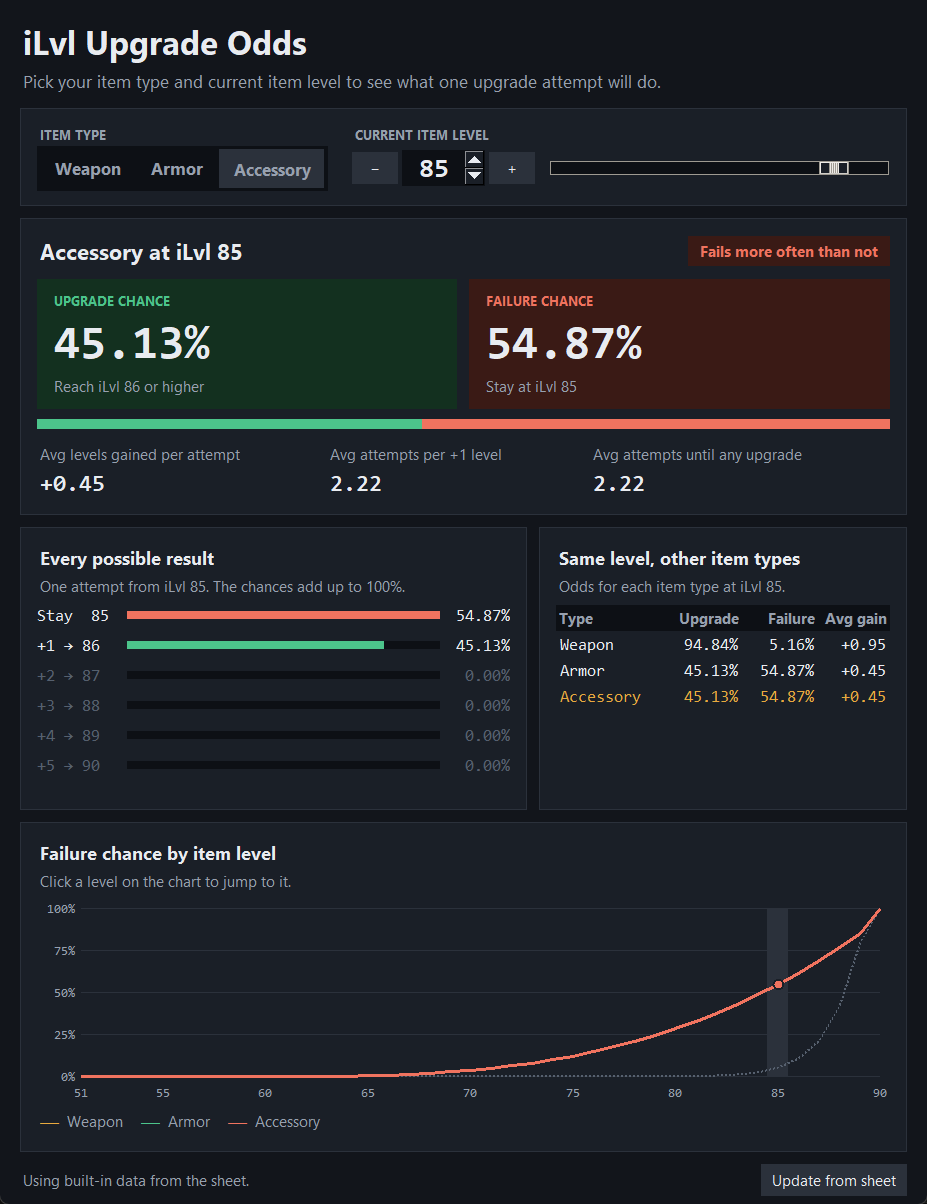
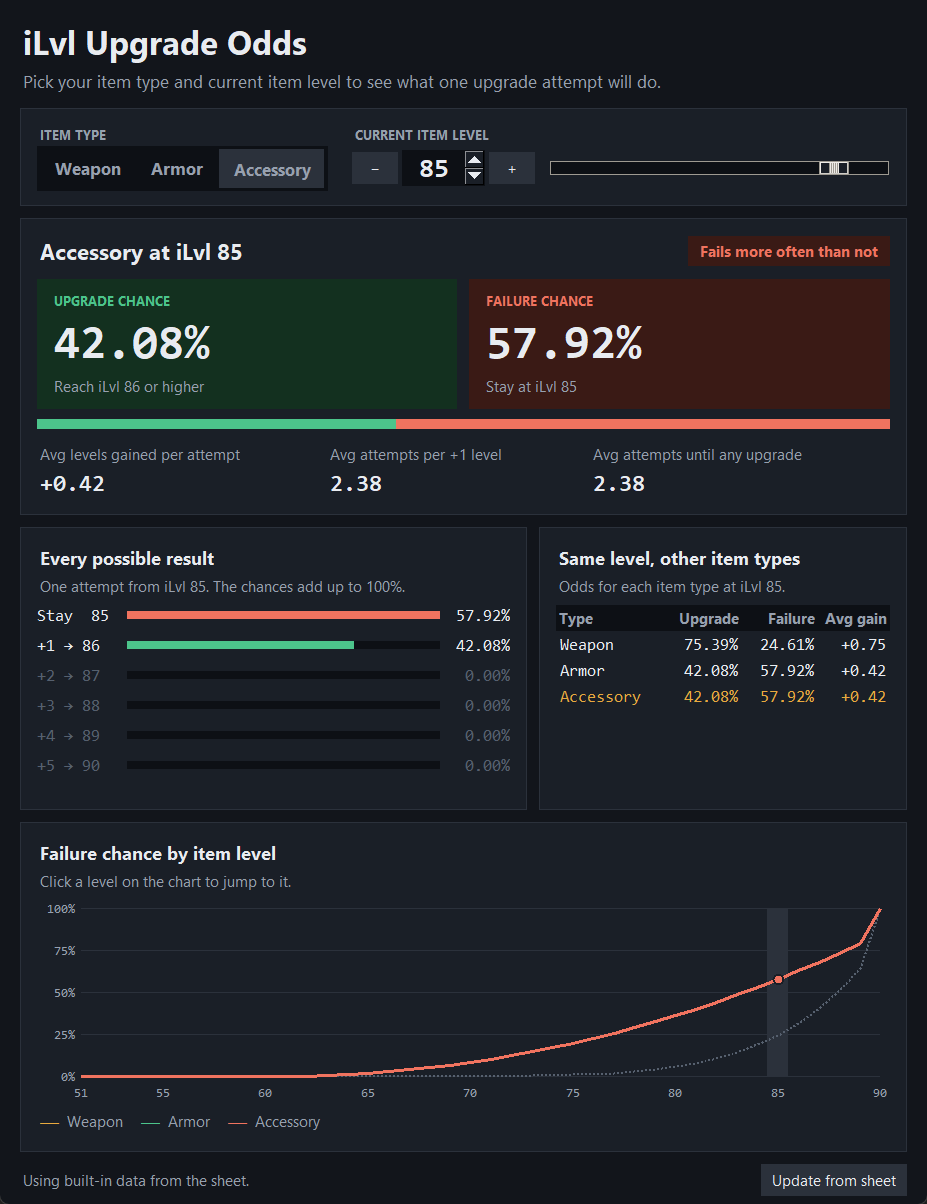
Update odds for the new patch using the Upgrade Table tabs
Switch to the new patch spreadsheet and read the Weapon/Armor/Accessory
Upgrade Table tabs instead of the Data tabs. iLvl 90 stays the cap.

diff --git a/ilvl_odds.py b/ilvl_odds.py
@@ -1,8 +1,9 @@
 """iLvl Upgrade Odds - check the upgrade and failure chance for one upgrade attempt.
 
-Data comes from the Weapons / Armor / Accessory Data tabs of the upgrade spreadsheet.
+Data comes from the Weapon / Armor / Accessory Upgrade Table tabs of the upgrade spreadsheet
+(the "Data" tabs are ignored). Each table row is a current iLvl; each column a target iLvl.
 Probabilities are stored in basis points (10000 = 100%) for a jump of +0..+5 levels.
-A +0 result is a failure (the item stays at its current level); items never lose levels.
+A +0 result is a failure (the item stays at its current level). iLvl 90 is the cap.
 """
 
 import csv
@@ -12,17 +13,16 @@ import tkinter as tk
 import urllib.request
 from tkinter import ttk
 
-SHEET_ID = "1vwajieBpz1aG5w9Bowha_bi0FKsclHv6GOT3r0qvzps"
-# Armor shares the Accessory Data tab: the sheet's Armor Data tab has the wrong odds.
-SHEET_TABS = {"weapon": "1739045732", "accessory": "526687631"}
+SHEET_ID = "1vFb9oC9X8ZaV6It9wg1yczTTkggU54zAMFBs6FuPDZ8"
+SHEET_TABS = {"weapon": "218905216", "armor": "948079119", "accessory": "1476482793"}
 TYPES = [("weapon", "Weapon"), ("armor", "Armor"), ("accessory", "Accessory")]
 MIN_LVL, MAX_LVL = 51, 90
 
 # Snapshot of the sheet, used offline and until "Update from sheet" is pressed.
 # level: [+0 (fail), +1, +2, +3, +4, +5] in basis points
-DATA = {"weapon":{"51":[0,2975,2380,1904,1523,1218],"52":[0,5113,2585,1307,661,334],"53":[0,5716,2501,1094,479,210],"54":[0,6149,2402,939,367,143],"55":[0,6498,2299,813,288,102],"56":[0,6795,2194,708,229,74],"57":[0,7056,2089,618,183,54],"58":[0,7289,1984,540,147,40],"59":[0,7501,1880,471,118,30],"60":[0,7696,1777,410,95,22],"61":[0,7877,1675,356,76,16],"62":[0,8046,1574,308,60,12],"63":[0,8205,1473,265,48,9],"64":[0,8357,1374,226,37,6],"65":[0,8499,1276,192,29,4],"66":[0,8634,1180,161,22,3],"67":[0,8763,1084,134,17,2],"68":[0,8888,989,110,12,1],"69":[0,9006,895,89,9,1],"70":[0,9122,801,70,6,1],"71":[0,9233,709,54,4,0],"72":[0,9338,618,41,3,0],"73":[0,9442,527,29,2,0],"74":[0,9542,437,20,1,0],"75":[0,9639,348,13,0,0],"76":[0,9733,260,7,0,0],"77":[0,9824,173,3,0,0],"78":[1,9912,86,1,0,0],"79":[3,9997,0,0,0,0],"80":[8,9992,0,0,0,0],"81":[21,9979,0,0,0,0],"82":[49,9951,0,0,0,0],"83":[110,9890,0,0,0,0],"84":[243,9757,0,0,0,0],"85":[516,9484,0,0,0,0],"86":[1064,8936,0,0,0,0],"87":[2137,7863,0,0,0,0],"88":[4184,5816,0,0,0,0],"89":[8000,2000,0,0,0,0],"90":[10000,0,0,0,0,0]},"accessory":{"51":[0,2975,2380,1904,1523,1218],"52":[0,5113,2585,1307,661,334],"53":[0,5716,2501,1094,479,210],"54":[0,6149,2402,939,367,143],"55":[0,6498,2299,813,288,102],"56":[0,6795,2194,708,229,74],"57":[0,7056,2089,618,183,54],"58":[0,7289,1984,540,147,40],"59":[0,7501,1880,471,118,30],"60":[0,7696,1777,410,95,22],"61":[0,7877,1675,356,76,16],"62":[3,8044,1573,308,60,12],"63":[11,8197,1472,264,47,9],"64":[25,8335,1371,226,37,6],"65":[48,8458,1270,191,29,4],"66":[82,8563,1170,160,22,3],"67":[128,8652,1070,132,16,2],"68":[190,8719,970,108,12,1],"69":[270,8764,870,86,9,1],"70":[368,8785,772,68,6,1],"71":[487,8782,675,52,4,0],"72":[630,8750,579,38,3,0],"73":[797,8689,485,27,2,0],"74":[992,8595,394,18,1,0],"75":[1216,8467,306,11,0,0],"76":[1471,8301,222,6,0,0],"77":[1759,8096,142,3,0,0],"78":[2082,7849,68,1,0,0],"79":[2442,7558,0,0,0,0],"80":[2841,7159,0,0,0,0],"81":[3281,6719,0,0,0,0],"82":[3763,6237,0,0,0,0],"83":[4290,5710,0,0,0,0],"84":[4864,5136,0,0,0,0],"85":[5487,4513,0,0,0,0],"86":[6159,3841,0,0,0,0],"87":[6885,3115,0,0,0,0],"88":[7664,2336,0,0,0,0],"89":[8500,1500,0,0,0,0],"90":[10000,0,0,0,0,0]}}
+DATA = {"weapon":{"51":[0,2975,2380,1904,1523,1218],"52":[0,5113,2585,1307,661,334],"53":[0,5716,2501,1094,479,210],"54":[0,6149,2402,939,367,143],"55":[0,6498,2299,813,288,102],"56":[0,6795,2194,708,229,74],"57":[0,7056,2089,618,183,54],"58":[0,7289,1984,540,147,40],"59":[0,7501,1880,471,118,30],"60":[0,7696,1777,410,95,22],"61":[0,7877,1675,356,76,16],"62":[0,8046,1574,308,60,12],"63":[0,8205,1473,265,48,9],"64":[0,8357,1374,226,37,6],"65":[0,8499,1276,192,29,4],"66":[0,8634,1180,161,22,3],"67":[1,8763,1083,134,17,2],"68":[2,8887,988,110,12,1],"69":[3,9004,894,89,9,1],"70":[7,9115,801,70,6,1],"71":[12,9222,708,54,4,0],"72":[21,9319,616,41,3,0],"73":[36,9408,525,29,2,0],"74":[58,9486,435,20,1,0],"75":[90,9553,345,12,0,0],"76":[137,9599,257,7,0,0],"77":[203,9625,169,3,0,0],"78":[294,9621,84,1,0,0],"79":[417,9583,0,0,0,0],"80":[581,9419,0,0,0,0],"81":[797,9203,0,0,0,0],"82":[1077,8923,0,0,0,0],"83":[1435,8565,0,0,0,0],"84":[1890,8110,0,0,0,0],"85":[2461,7539,0,0,0,0],"86":[3171,6829,0,0,0,0],"87":[4048,5952,0,0,0,0],"88":[5121,4879,0,0,0,0],"89":[6425,3575,0,0,0,0],"90":[10000,0,0,0,0,0]},"armor":{"51":[0,2975,2380,1904,1523,1218],"52":[0,5113,2585,1307,661,334],"53":[0,5716,2501,1094,479,210],"54":[0,6149,2402,939,367,143],"55":[0,6498,2299,813,288,102],"56":[0,6795,2194,708,229,74],"57":[0,7056,2089,618,183,54],"58":[0,7289,1984,540,147,40],"59":[0,7501,1880,471,118,30],"60":[0,7696,1777,410,95,22],"61":[7,7871,1674,356,76,16],"62":[28,8024,1569,307,60,12],"63":[67,8151,1464,263,47,8],"64":[122,8254,1358,223,37,6],"65":[196,8333,1251,188,28,4],"66":[287,8386,1146,157,21,3],"67":[398,8415,1040,129,16,2],"68":[527,8420,936,104,12,1],"69":[675,8399,834,83,8,1],"70":[842,8354,734,64,6,0],"71":[1029,8282,636,49,4,0],"72":[1236,8185,541,36,2,0],"73":[1463,8061,450,25,1,0],"74":[1710,7909,363,17,1,0],"75":[1977,7733,280,10,0,0],"76":[2264,7530,201,5,0,0],"77":[2572,7298,128,2,0,0],"78":[2901,7037,61,1,0,0],"79":[3251,6749,0,0,0,0],"80":[3621,6379,0,0,0,0],"81":[4013,5987,0,0,0,0],"82":[4426,5574,0,0,0,0],"83":[4860,5140,0,0,0,0],"84":[5315,4685,0,0,0,0],"85":[5792,4208,0,0,0,0],"86":[6290,3710,0,0,0,0],"87":[6810,3190,0,0,0,0],"88":[7351,2649,0,0,0,0],"89":[7915,2085,0,0,0,0],"90":[10000,0,0,0,0,0]},"accessory":{"51":[0,2975,2380,1904,1523,1218],"52":[0,5113,2585,1307,661,334],"53":[0,5716,2501,1094,479,210],"54":[0,6149,2402,939,367,143],"55":[0,6498,2299,813,288,102],"56":[0,6795,2194,708,229,74],"57":[0,7056,2089,618,183,54],"58":[0,7289,1984,540,147,40],"59":[0,7501,1880,471,118,30],"60":[0,7696,1777,410,95,22],"61":[7,7871,1674,356,76,16],"62":[28,8024,1569,307,60,12],"63":[67,8151,1464,263,47,8],"64":[122,8254,1358,223,37,6],"65":[196,8333,1251,188,28,4],"66":[287,8386,1146,157,21,3],"67":[398,8415,1040,129,16,2],"68":[527,8420,936,104,12,1],"69":[675,8399,834,83,8,1],"70":[842,8354,734,64,6,0],"71":[1029,8282,636,49,4,0],"72":[1236,8185,541,36,2,0],"73":[1463,8061,450,25,1,0],"74":[1710,7909,363,17,1,0],"75":[1977,7733,280,10,0,0],"76":[2264,7530,201,5,0,0],"77":[2572,7298,128,2,0,0],"78":[2901,7037,61,1,0,0],"79":[3251,6749,0,0,0,0],"80":[3621,6379,0,0,0,0],"81":[4013,5987,0,0,0,0],"82":[4426,5574,0,0,0,0],"83":[4860,5140,0,0,0,0],"84":[5315,4685,0,0,0,0],"85":[5792,4208,0,0,0,0],"86":[6290,3710,0,0,0,0],"87":[6810,3190,0,0,0,0],"88":[7351,2649,0,0,0,0],"89":[7915,2085,0,0,0,0],"90":[10000,0,0,0,0,0]}}
 DATA = {t: {int(lvl): probs for lvl, probs in levels.items()} for t, levels in DATA.items()}
-DATA["armor"] = DATA["accessory"]  # armor uses the same odds as accessories
+
 
 # Palette
 BG = "#12151B"
@@ -41,25 +41,49 @@ FONT = "Segoe UI"
 MONO = "Consolas"
 
 
+def parse_upgrade_table(text):
+    """Turn an Upgrade Table tab (current iLvl rows x target iLvl columns, in %) into jump odds."""
+    rows = list(csv.reader(io.StringIO(text)))
+    header = next((r for r in rows if r and r[0].strip() == "current_level"), None)
+    if header is None:
+        raise ValueError("no current_level header row")
+    targets = {i: int(h) for i, h in enumerate(header) if h.strip().isdigit()}
+    levels = {}
+    for row in rows:
+        if not (row and row[0].strip().isdigit()):
+            continue
+        lvl = int(row[0])
+        if lvl >= MAX_LVL:
+            levels[lvl] = [10000, 0, 0, 0, 0, 0]  # the cap: an attempt always stays at 90
+            continue
+        probs = [0] * 6
+        for i, target in targets.items():
+            cell = row[i].strip() if i < len(row) else ""
+            if not cell.endswith("%"):
+                continue
+            bp = round(float(cell[:-1]) * 100)
+            jump = target - lvl
+            if bp and not 0 <= jump <= 5:
+                raise ValueError(f"iLvl {lvl} has an unexpected jump to {target}")
+            if bp:
+                probs[jump] += bp
+        if sum(probs) != 10000:
+            raise ValueError(f"iLvl {lvl} odds add up to {sum(probs) / 100:.2f}%, not 100%")
+        levels[lvl] = probs
+    return levels
+
+
 def fetch_sheet():
-    """Download the three Data tabs from the Google Sheet and parse them."""
+    """Download the three Upgrade Table tabs from the Google Sheet and parse them."""
     fresh = {}
     for item_type, gid in SHEET_TABS.items():
         url = f"https://docs.google.com/spreadsheets/d/{SHEET_ID}/export?format=csv&gid={gid}"
         with urllib.request.urlopen(url, timeout=15) as resp:
-            text = resp.read().decode("utf-8")
-        levels = {}
-        for row in csv.DictReader(io.StringIO(text)):
-            delta = int(row["delta"])
-            if delta < 0:
-                continue
-            lvl = int(row["current_level"])
-            levels.setdefault(lvl, [0] * 6)[delta] = int(row["probability"])
+            levels = parse_upgrade_table(resp.read().decode("utf-8"))
         missing = [lvl for lvl in range(MIN_LVL, MAX_LVL + 1) if lvl not in levels]
         if missing:
-            raise ValueError(f"{item_type} tab is missing iLvl {missing[0]}")
+            raise ValueError(f"{item_type} table is missing iLvl {missing[0]}")
         fresh[item_type] = levels
-    fresh["armor"] = fresh["accessory"]
     return fresh
 
 

diff --git a/README.md b/README.md
@@ -43,15 +43,15 @@ The executable is written to `dist/`.
 
 ## Data
 
-The odds come from the Data tabs of the [upgrade odds spreadsheet](https://docs.google.com/spreadsheets/d/1vwajieBpz1aG5w9Bowha_bi0FKsclHv6GOT3r0qvzps/edit). Each row gives the probability (in basis points, 10000 = 100%) of moving from a current level to a target level, for jumps from +0 to +5.
+The odds come from the Upgrade Table tabs of the [upgrade odds spreadsheet](https://docs.google.com/spreadsheets/d/1vFb9oC9X8ZaV6It9wg1yczTTkggU54zAMFBs6FuPDZ8/edit), which reflects the latest patch. Each row of a table is a current iLvl, and each column is the chance of landing on a target iLvl. Jumps range from +0 to +5.
 
 | Item type | Source tab |
 |---|---|
-| Weapon | Weapons Data |
-| Armor | Accessory Data |
-| Accessory | Accessory Data |
+| Weapon | Weapon Upgrade Table |
+| Armor | Armor Upgrade Table |
+| Accessory | Accessory Upgrade Table |
 
-Armor uses the **Accessory Data** tab because armor and accessories share the same upgrade odds. The sheet's Armor Data tab holds different numbers and is not used.
+The tabs named "Data" (Weapons Data, Armor Data, Accessory Data) are not used.
 
 How the values are calculated:
 
@@ -61,4 +61,4 @@ How the values are calculated:
 * Avg attempts per +1 iLvl = 1 ÷ avg levels gained per attempt
 * Avg attempts until any upgrade = 1 ÷ upgrade chance
 
-Item level 90 is the cap, so an attempt at iLvl 90 always stays at 90.
+Item level 90 is the cap, so an attempt at iLvl 90 always stays at 90. The app ignores the sheet's iLvl 90 row.
